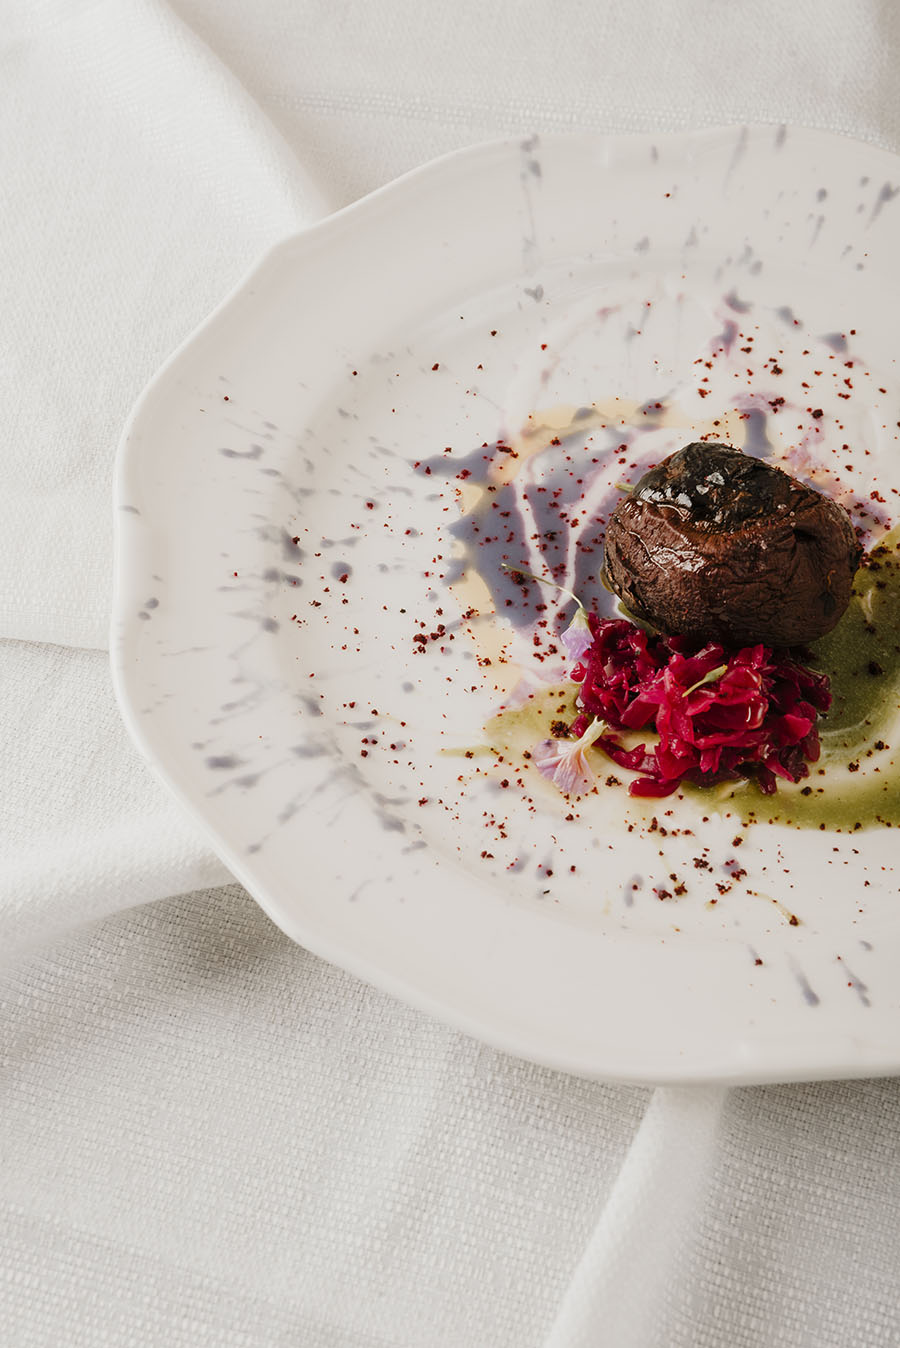
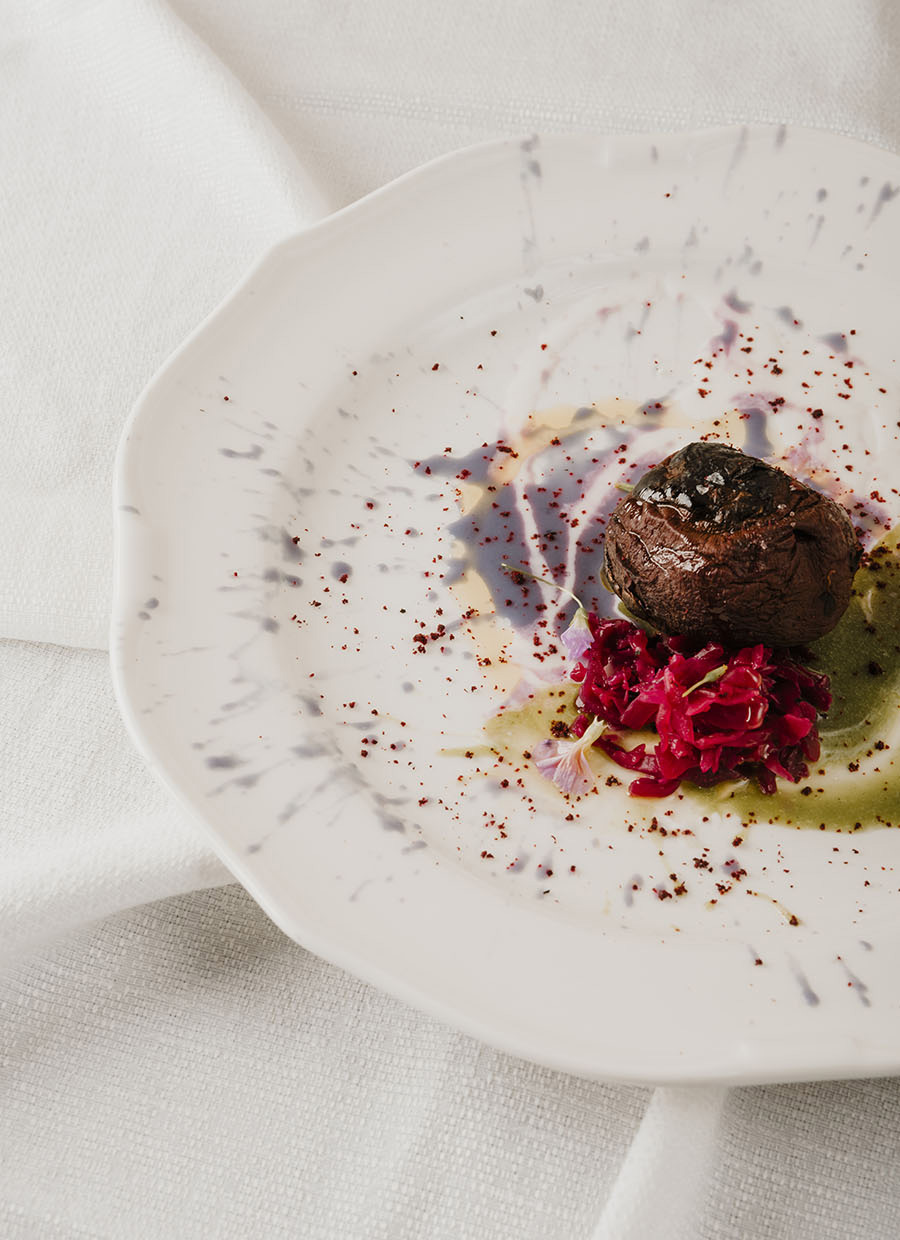
uf

diff --git a/index.html b/index.html
@@ -106,7 +106,7 @@ Quattro suite affrescate per vivere una vacanza da sogno, il giardino con piscin
 <br><br>
 Ogni esperienza svela un patrimonio naturale a cui siamo legati dalla tradizione più autentica e ormai quasi del tutto perduta. Il ristorante dei fratelli Montaruli fa riscoprire i sapori del territorio nel progetto di cucina vegetale in cui il dialogo fra uomo e natura prende vita.
     </span>
-    <span lang="eng">An historic villa between Murgia and the Adriatic Sea, immersed within a secular park, where nature meets art.
+    <span lang="eng">a historic villa between Murgia and the Adriatic Sea, immersed within a secular park, where nature meets art.
 <br><br>
 Four frescoed suites to live a dream like vacation, the garden with swimming pool, the great halls for parties, and a kitchen unique for its ethnobotanic secrets.
 <br><br>
@@ -130,7 +130,7 @@ Each experience unveils a natural heritage to which we’re a bond by an almost 
       <span class="m-text">2/4</span>
     </div>
     <div class="carousel-item">
-      <img src="assets/img/home/3c.jpg" class="d-block w-100" alt="image">
+      <img src="assets/img/luoghi/1d.jpg" class="d-block w-100" alt="image">
       <span class="m-text">3/4</span>
     </div>
     <div class="carousel-item">
@@ -199,15 +199,15 @@ Discover Mezza Pagnotta’s ethnobotanic cuisine, where the dialogue with nature
 
     <div class="carousel-inner">
       <div class="carousel-item active">
-        <img src="assets/img/home/6a.jpg" class="d-block w-100" alt="image" id="ph-a">
+        <img src="assets/img/cucina/2c.jpg" class="d-block w-100" alt="image" id="ph-a">
         <span class="m-text">1/5</span>
       </div>
       <div class="carousel-item">
-        <img src="assets/img/home/6b.jpg" class="d-block w-100" alt="image" id="ph-b">
+        <img src="assets/img/cucina/4b.jpg" class="d-block w-100" alt="image" id="ph-b">
         <span class="m-text">2/5</span>
       </div>
       <div class="carousel-item">
-        <img src="assets/img/home/6c.jpg" class="d-block w-100" alt="image" id="ph-c">
+        <img src="assets/img/esperienze/2d.jpg" class="d-block w-100" alt="image" id="ph-c">
         <span class="m-text">3/5</span>
       </div>
       <div class="carousel-item">

diff --git a/residenza.html b/residenza.html
@@ -65,7 +65,7 @@
   <div class="carousel slide" data-bs-ride="carousel" style="position: absolute; width: 100%; height: 100%; z-index: 0;">
   <div class="carousel-inner">
     <div class="carousel-item active">
-      <img src="assets/img/bb/1a.JPG" class="d-block w-100" alt="image">
+      <img src="assets/img/bb/1a.JPG" class="d-block w-100" alt="image" id="ph-a">
     </div>
     <div class="carousel-item">
       <img src="assets/img/bb/1b.jpg" class="d-block w-100" alt="image">
@@ -170,7 +170,7 @@ I suoi ospiti vivono l’intensità dei profumi degli agrumi e del gelsomino su 
       <span class="m-text">1/2</span>
     </div>
     <div class="carousel-item">
-      <img src="assets/img/bb/giuseppina2.jpg" class="d-block w-100" alt="image">
+      <img src="assets/img/bb/giuseppina2.jpg" class="d-block w-100" alt="image" id="ph-b">
       <span class="m-text">2/2</span>
     </div>
     <span class="currentnum m-text">1/2</span>
@@ -185,11 +185,11 @@ I suoi ospiti vivono l’intensità dei profumi degli agrumi e del gelsomino su 
 
   <div class="carousel-inner">
     <div class="carousel-item active" style="background-color: black">
-      <img src="assets/img/bb/mariagiulia1.jpg" class="d-block w-100" alt="image">
+      <img src="assets/img/bb/mariagiulia1.jpg" class="d-block w-100" alt="image" id="ph-a">
       <span class="m-text">1/2</span>
     </div>
     <div class="carousel-item">
-      <img src="assets/img/bb/mariagiulia2.jpg" class="d-block w-100" alt="image">
+      <img src="assets/img/bb/mariagiulia2.jpg" class="d-block w-100" alt="image" id="ph-b">
       <span class="m-text">2/2</span>
     </div>
     <span class="currentnum m-text">1/2</span>

diff --git a/assets/styles/residenzamobile.css b/assets/styles/residenzamobile.css
@@ -1,4 +1,7 @@
-/* SECTION 12 */
+/* SECTION 1 */
+#section1 #ph-a {object-position: 70% center}
+
+/* SECTION 13 */
 #section13 {
   min-height: 0;
   height: 75vh;
@@ -9,7 +12,7 @@ padding: calc(var(--margin)/2) calc(var(--margin)/3) calc(var(--margin)/2) calc(
   color: var(--red);
 }
 
-#section7 img, #section8 img, #section9 img, #section10 img, #section11 img {height: 50vh}
+#section7 img, #section8 img, #section9 img, #section10 img, #section11 img, #section12 img {height: 50vh}
 
 /* SQUARE OR NOT VERY LARGE */
 @media (min-aspect-ratio: 1/1) {

diff --git a/assets/styles/global.css b/assets/styles/global.css
@@ -302,10 +302,11 @@ input, textarea {
   resize: none;
 }
 
-textarea {min height: 30vh};
+textarea {min-height: 12vh}
 
-form button {padding: calc(var(--margin)/2.5) calc(var(--margin)/2) calc(var(--margin)/2.5) calc(var(--margin)/2);
+form button {
 border: none; outline: none;
+padding: calc(var(--margin)/2.5) calc(var(--margin)/2) calc(var(--margin)/2.5) calc(var(--margin)/2);
 }
 
 form button:hover {text-decoration: underline}

diff --git a/assets/styles/globalmobile.css b/assets/styles/globalmobile.css
@@ -333,7 +333,7 @@ section {
 }} */
 
 /* FORM */
-form input, form button, form textarea {margin: calc(var(--margin)/2) 0 calc(var(--margin)/2) 0; border: none; outline: none;}
+form input, form button, form textarea {margin: calc(var(--margin)/2) 0 calc(var(--margin)/2) 0; border: none; outline: none; border-radius: 0}
 
 input[type="text"], input[type="tel"], textarea {min-width: 50vw;
 resize: none;}

diff --git a/assets/styles/residenza.css b/assets/styles/residenza.css
@@ -27,7 +27,19 @@
   object-position: center 80%;
 }
 
-/* SECTION 7 */
+/* SECTION 1 */
+#section1 #ph-a {object-position: right center}
+
+
+/* SECTION5 */
+#section5 #ph-b {object-position: center top}
+
+/* SECTION 6 */
+#section6 #ph-a {object-position: 22% center}
+#section6 #ph-b {object-position: center 45%}
+
+
+/* SECTION 13 */
 #section13 img {
   padding: var(--header-margin);
 }

diff --git a/assets/styles/homemobile.css b/assets/styles/homemobile.css
@@ -24,6 +24,7 @@
 font-family: 'Source Serif Pro', serif!Important;
 }
 
+
 #section1 span {  display: none }
 
 #sec1-link {
@@ -131,8 +132,8 @@ gap: var(--margin);
 
 /* SECTION 7 */
 #section7 {padding: var(--margin); min-height: 100vh}
-
-#section7 img {width: 80%}
+#section7 .col-12 {min-height: 50vh}
+#section7 img {width: 90%}
 
 /* #section7 {
   flex-wrap: wrap;

diff --git a/esperienze.html b/esperienze.html
@@ -113,7 +113,7 @@
       <span class="m-text">2/4</span>
     </div>
     <div class="carousel-item">
-      <img src="assets/img/esperienze/2c.jpg" class="d-block w-100" alt="image">
+      <img src="assets/img/esperienze/2c.jpg" class="d-block w-100" alt="image" id="ph-c">
       <span class="m-text">3/4</span>
     </div>
     <div class="carousel-item">

diff --git a/assets/styles/home.css b/assets/styles/home.css
@@ -153,17 +153,9 @@ gap: var(--margin)
   object-position: left;
 }
 
-#section4 #ph-a {
+/* #section4 #ph-a {
   object-position: center 60%;
-}
-
-#section4 #ph-b {
-  object-position: center 15%;
-}
-
-#section4 #ph-c {
-  object-position: center 10%;
-}
+} */
 
 /* #section4 #ph-d {
   object-position: center top;

diff --git a/assets/styles/esperienzemobile.css b/assets/styles/esperienzemobile.css
@@ -16,6 +16,8 @@
   padding: var(--margin)
 }
 
-#section6 img {  content: url('../img/logomark.svg'); width: 80%}
+
+#section6 .col-12 {min-height: 50vh}
+#section6 img {  content: url('../img/logomark.svg'); width: 90%}
 
 input, textarea {border: solid 0.5px var(--red)!Important}

diff --git a/assets/styles/esperienze.css b/assets/styles/esperienze.css
@@ -20,6 +20,8 @@
   object-position: center 10%;
 }
 
+#section3 #ph-c {
+  object-position: 45% center}
 
 #section4 .carousel img {
   object-position: center 12%;
